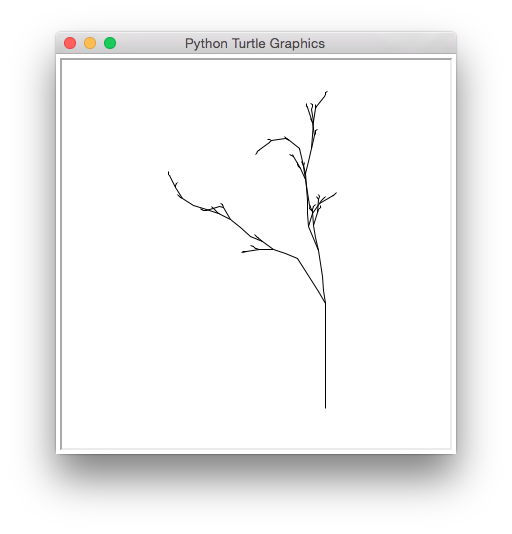
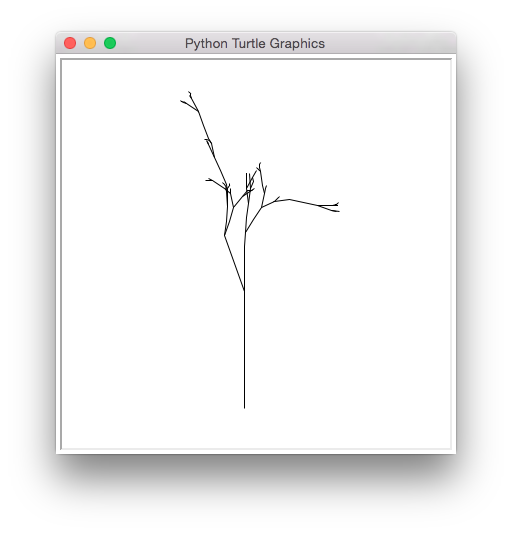
Changed test2.py pics

diff --git a/test2.py b/test2.py
@@ -1,9 +1,8 @@
 from lsystem import eval_rules
-from random import choice
 from numpy import arange
-from numpy.random import normal
+from numpy.random import normal, choice
 
-rules = {'1': '11', '0': lambda: choice(('1[0[0]]0', '1[0[0[0]]]'))}
+rules = {'1': '11', '0': lambda: choice((['1[0]0', '1[0[0]]0', '1[0[0[0]]]0']))}
 seq = eval_rules(rules, niter=4, init='0')
 draw_rules = {'1': lambda **kw: kw['t'].forward(kw['step']), 
 	'[': lambda **kw: kw['t'].left(normal(kw['depth']*0.1, 20)), \

diff --git a/test1.py b/test1.py
@@ -1,5 +1,4 @@
 from lsystem import eval_rules
-from random import choice
 from numpy import arange
 from numpy.random import normal
 
